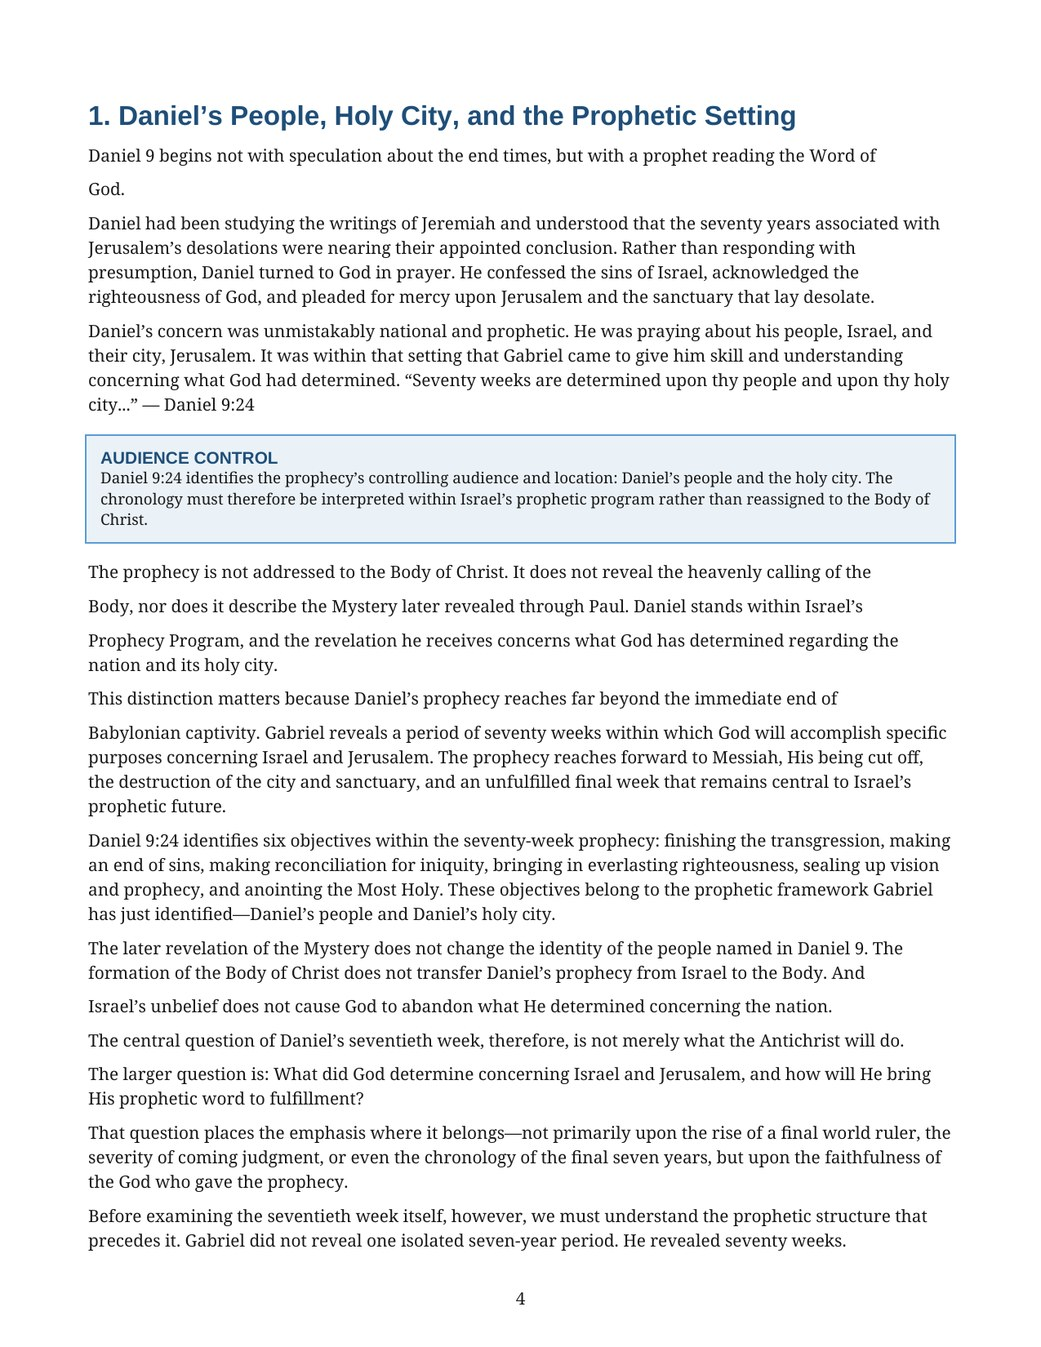
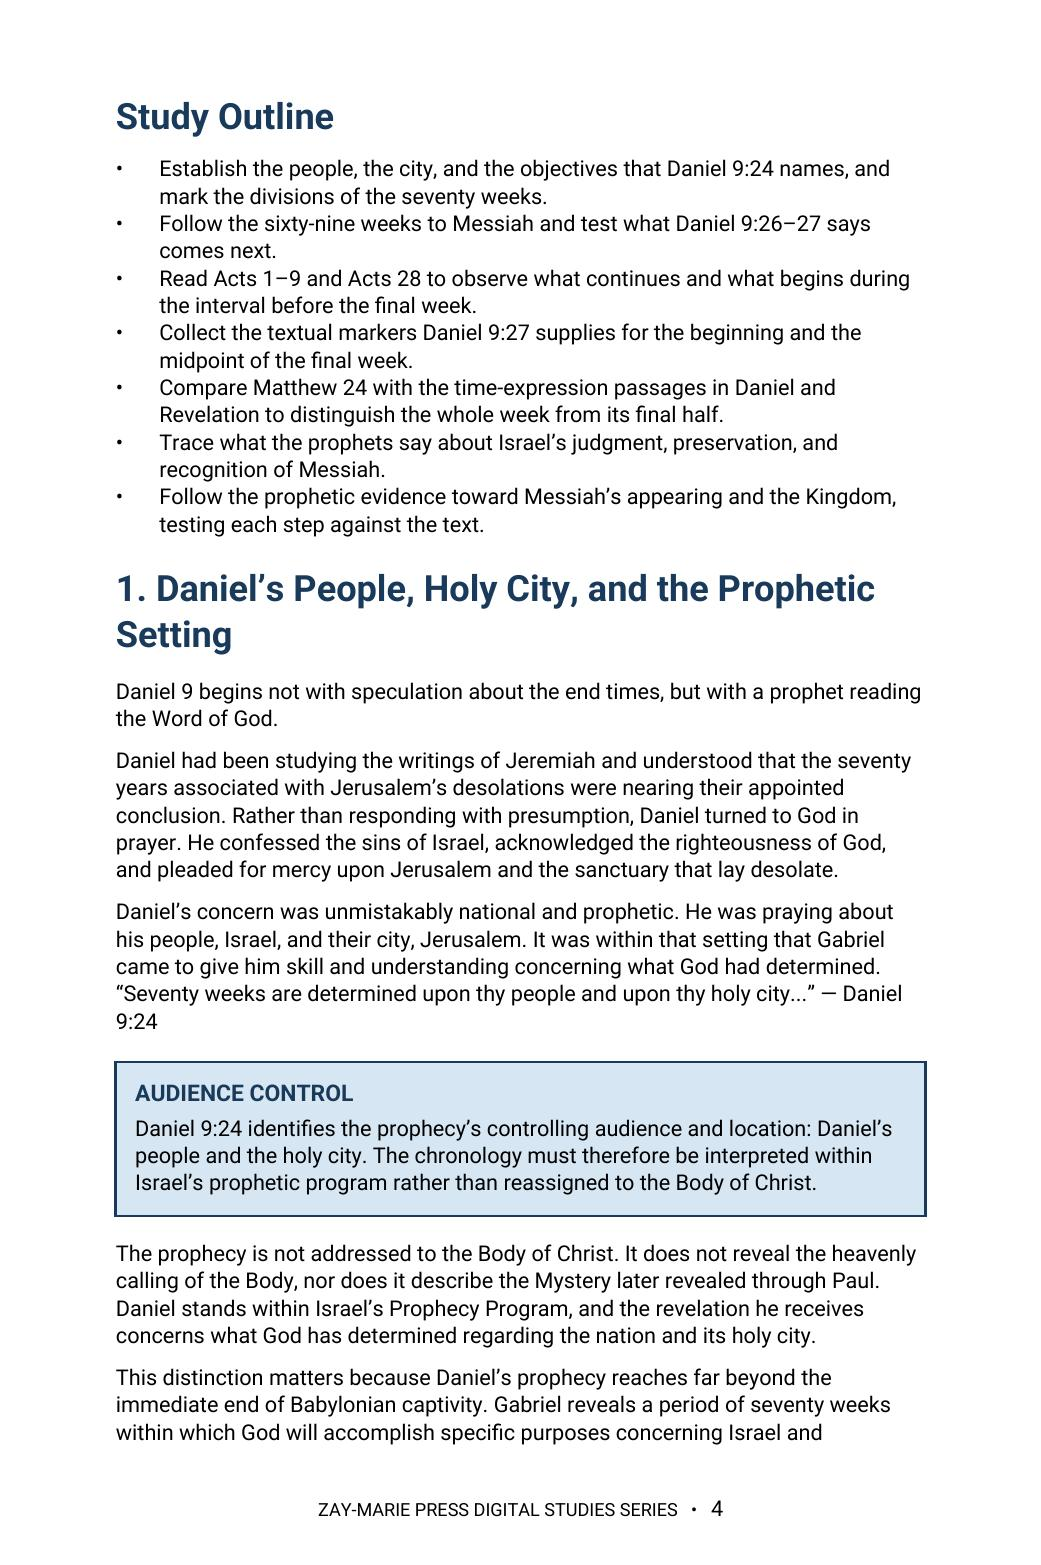
Study 10: Roboto rebuild to Master Standard v1.30; 23 pages (publisher-accepted exception); preview strip re-cut; tracker v1.34
Claude-Session: https://claude.ai/code/session_01TLNFW47XCW6YAMUxScR3v4

Changed region(s): [[0.0615, 0.0624, 0.9222, 0.9666], [0.8915, 0.3118, 0.9222, 0.343]]

diff --git a/study-10-daniels-seventieth-week.html b/study-10-daniels-seventieth-week.html
@@ -14,7 +14,7 @@
 <section class="detail-section soft"><div class="wrap"><div class="eyebrow">WHAT YOU’LL STUDY</div><h2>Follow Daniel’s Prophetic Framework</h2><div class="study-points"><div class="study-point"><h3>Daniel’s People, Holy City, and Prophetic Setting</h3><p>Begin where Daniel begins: Israel, Jerusalem, and the objectives God determined for them.</p></div><div class="study-point"><h3>The Seventy-Week Framework</h3><p>Establish the completed sixty-nine weeks and the one remaining seven-year week.</p></div><div class="study-point"><h3>The Unfulfilled Week and the Acts Overlap</h3><p>Keep Daniel’s future week distinct while Prophecy and Mystery operate concurrently in Acts 9–28.</p></div><div class="study-point"><h3>The Week Begins and Reaches Its Midpoint</h3><p>Follow Daniel 9:27’s explicit markers for the covenant, sacrifice, offering, and midpoint.</p></div><div class="study-point"><h3>The Great Tribulation: The Final Half</h3><p>Distinguish the complete seven-year week from the latter period Jesus associates with the abomination.</p></div><div class="study-point"><h3>Israel, Preservation, and the Coming King</h3><p>Trace judgment, preservation, Messiah’s appearing, and the earthly Kingdom promised to Israel.</p></div></div></div></section>
 <section class="detail-section cream"><div class="wrap"><div class="eyebrow">KEY SCRIPTURES</div><h2>Examine the Passages for Yourself</h2><div class="scripture-grid"><div class="scripture-card"><h3>Daniel 9:24–27</h3><p>Establishes the people, city, objectives, divisions, and final-week markers of the prophecy.</p></div><div class="scripture-card"><h3>Acts 1:6</h3><p>Shows Israel’s Kingdom expectation still in view after the resurrection.</p></div><div class="scripture-card"><h3>Acts 9</h3><p>Marks the beginning of the Mystery revealed through Paul while Prophecy continues.</p></div><div class="scripture-card"><h3>Acts 28:25–28</h3><p>Marks the suspension of Israel’s Prophecy Program without cancellation of Israel’s promises.</p></div><div class="scripture-card"><h3>Matthew 24:15–31</h3><p>Connects the abomination with the Great Tribulation and Messiah’s appearing.</p></div><div class="scripture-card"><h3>2 Thessalonians 2:3–8</h3><p>Adds prophetic detail concerning the final ruler and his self-exaltation.</p></div><div class="scripture-card"><h3>Revelation 11–13</h3><p>Supplies time markers that illuminate the final half of the week.</p></div><div class="scripture-card"><h3>Zechariah 12–14</h3><p>Traces Israel’s future recognition of Messiah, deliverance, and Kingdom fulfillment.</p></div></div></div></section>
 <section class="detail-section"><div class="wrap"><div class="eyebrow">FROM THE STUDY</div><h2>God’s Prophetic Word Concerning Israel Will Stand</h2><div class="excerpt"><blockquote>“What God determined concerning Daniel’s people and Daniel’s holy city, He will fulfill.”</blockquote><p>The final week belongs to the prophetic purpose determined for Israel and Jerusalem. The Mystery revealed through Paul does not rewrite Daniel’s audience, absorb Israel’s promises, or place the Body of Christ inside Israel’s final week.</p></div></div></section>
-<section class="detail-section soft"><div class="wrap"><div class="eyebrow">A LOOK INSIDE</div><h2>Preview the Study Before You Purchase</h2><p class="preview-instruction">Click any page to enlarge it for reading.</p><div class="preview-grid"><div class="preview-card"><a class="preview-image-link" data-preview-lightbox href="assets/study-10-page-3.jpg"><img src="assets/study-10-page-3.jpg" alt="Study 10 interior preview — page 3, table of contents"/></a><div class="page-no">Page 3</div><h3>Table of Contents</h3><p>See the full structure of the study, from the introduction through the final synthesis.</p></div><div class="preview-card"><a class="preview-image-link" data-preview-lightbox href="assets/study-10-page-2.jpg"><img src="assets/study-10-page-2.jpg" alt="Study 10 interior preview — page 2, what you will learn"/></a><div class="page-no">Page 2</div><h3>What You Will Learn</h3><p>See the study’s goals, controls, and central question at a glance.</p></div><div class="preview-card"><a class="preview-image-link" data-preview-lightbox href="assets/study-10-page-4.jpg"><img src="assets/study-10-page-4.jpg" alt="Study 10 interior preview — page 4, Daniel’s people, holy city, and the prophetic setting"/></a><div class="page-no">Page 4</div><h3>Daniel’s People, Holy City, and the Prophetic Setting</h3><p>Begin where Daniel 9 begins: with a prophet reading the Word and praying for his people and city.</p></div></div></div></section>
+<section class="detail-section soft"><div class="wrap"><div class="eyebrow">A LOOK INSIDE</div><h2>Preview the Study Before You Purchase</h2><p class="preview-instruction">Click any page to enlarge it for reading.</p><div class="preview-grid"><div class="preview-card"><a class="preview-image-link" data-preview-lightbox href="assets/study-10-page-2.jpg"><img src="assets/study-10-page-2.jpg" alt="Study 10 interior preview — page 2, table of contents"/></a><div class="page-no">Page 2</div><h3>Table of Contents</h3><p>See the full structure of the study, from the introduction through the final synthesis.</p></div><div class="preview-card"><a class="preview-image-link" data-preview-lightbox href="assets/study-10-page-3.jpg"><img src="assets/study-10-page-3.jpg" alt="Study 10 interior preview — page 3, what you will learn"/></a><div class="page-no">Page 3</div><h3>What You Will Learn</h3><p>See the study’s goals, controls, and central question at a glance.</p></div><div class="preview-card"><a class="preview-image-link" data-preview-lightbox href="assets/study-10-page-4.jpg"><img src="assets/study-10-page-4.jpg" alt="Study 10 interior preview — page 4, Daniel’s people, holy city, and the prophetic setting"/></a><div class="page-no">Page 4</div><h3>Daniel’s People, Holy City, and the Prophetic Setting</h3><p>Begin where Daniel 9 begins: with a prophet reading the Word and praying for his people and city.</p></div></div></div></section>
 <section class="detail-section"><div class="wrap"><div class="eyebrow">WHAT’S INCLUDED</div><h2>A Focused Study Built for<br/>Understanding and Teaching</h2><div class="includes-grid"><div class="include-item"><h3>23-Page In-Depth Biblical Study</h3><p>A sustained, Scripture-first examination of Daniel’s final prophetic week.</p></div><div class="include-item"><h3>Seven Core Teaching Sections</h3><p>Progress from Daniel’s people and city to the final week, Messiah’s appearing, and Kingdom.</p></div><div class="include-item"><h3>Daniel 9 Framework Study</h3><p>Establish the seventy weeks, the sixty-nine completed weeks, and the one remaining week.</p></div><div class="include-item"><h3>Acts Overlap Control</h3><p>Keep Daniel’s future week within Israel’s Prophecy Program while Mystery operates distinctly in Acts.</p></div><div class="include-item"><h3>Ten Review Questions</h3><p>Test the study’s distinctions concerning Daniel 9, the week, Israel, and the Body.</p></div><div class="include-item"><h3>Teaching Outline</h3><p>A ready framework for explaining the final week without depending on an inherited chart.</p></div><div class="include-item"><h3>Guided Further Study</h3><p>Trace the key texts on the framework, midpoint, preservation, Messiah’s appearing, and Kingdom.</p></div><div class="include-item"><h3>Final Synthesis Exercise</h3><p>Build the entire argument from Scripture and distinguish explicit statements from broader synthesis.</p></div></div></div></section>
 <section class="detail-section cream"><div class="wrap"><div class="final-buy"><div><div class="eyebrow">STUDY 10 · DIGITAL STUDY</div><h2>Daniel’s Seventieth Week</h2><p>23-page digital PDF · For personal use</p></div><div class="final-offer"><div class="detail-price">$5.99</div><span class="detail-button pending" aria-disabled="true">Get the Study</span></div></div><a class="back-link" href="digital-studies.html">← Back to All Digital Studies</a></div></section><section class="study-method-course-bridge"><div class="wrap"><div class="study-method-course-panel"><div><div class="eyebrow">BUILD THE INTERPRETIVE METHOD</div><h2>Want More Than a Focused Study?</h2><p>Digital Studies examine particular biblical subjects and difficult passages. The 40-lesson Biblical Hermeneutics course teaches a complete, repeatable method for establishing meaning in context, determining proper assignment, and making responsible application.</p></div><a class="btn btn-primary" href="biblical-hermeneutics-course.html">BIBLICAL HERMENEUTICS COURSE</a></div></div></section></main>
 <div class="preview-lightbox" id="preview-lightbox" role="dialog" aria-modal="true" aria-label="Enlarged study page preview"><button class="preview-lightbox-close" type="button" aria-label="Close enlarged preview">×</button><img src="" alt=""/><div class="preview-lightbox-hint">Scroll to read the full page · Press Esc or click outside the page to close</div></div>

diff --git a/controlling-documents/Digital_Studies_PAM_Audit_v1.34.md b/controlling-documents/Digital_Studies_PAM_Audit_v1.34.md
@@ -187,7 +187,7 @@ All 71 studies get a detailed look, in number order, in batches of 15 (1-15, 16-
 | 2, 3, 6, 8, 15 | Not yet read (PDFs for 2, 3, 6, 8 received; 15 not yet supplied) |
 | 4, 5, 7, 11, 12, 13, 14 | Previously read in full and clear (noted) |
 | 9 | Previously reviewed; conflict fixed. Open item: no recorded live check after the Cloudflare incident (v1.9 note) |
-| 10 | Previously keyword sweep plus flagged passages read (not a full read); noted |
+| 10 | Read in full 2026-09-30: clear (see v1.34) |
 
 ## Study 1 - The Bride of Christ (2026-09-30)
 
@@ -260,3 +260,4 @@ Study 15 PDF not yet supplied. Typography: none of Studies 2, 3, 6, 8 is in EB G
 - v1.31 (2026-09-30): Study 7 (The Day of the Lord) read in full against the PAM and Framework: clear (Day of the Lord kept in Israel's Prophecy Program; 1 Thess 4 treated as the Body's gathering, chapter 5 as the Day; 2 Thess 2:2 left unresolved; no use of Matthew 24 or Luke 17 as rapture texts; Thessalonians not assigned by the PAM). Approved by the publisher ("i approve") and pushed: Roboto rebuild to Master Standard v1.28/v1.29/v1.30, 16 pages (cover plus 15 interior; was 17), five boxed callouts (Study Goal, Interpretive Control in the Introduction, Programmatic Control, Hermeneutical Control, Final Control; the others became body paragraphs with a bold run-in lead), TOC first at body spacing, Heading 1 at 12 pt, review questions 1-18, copyright in the end imprint. Website: preview strip kept at three cards but re-cut (Page 2 Table of Contents, Page 3 What You Will Learn, Page 6 Sudden Destruction and Judgment; page 5 rejected because it opens with the Programmatic Control callout, which states the conclusion); old page 9, 12 and 13 images removed; page count 17 to 16 in site.js, the What's Included card and the hero line. Checked locally at 1280, 390, 360 and 320 px; not checked live (Cloudflare Access sign-in). The publisher swaps the purchasable PDF himself. Next file needed: Study 8 DOCX.
 - v1.32 (2026-09-30): Study 8 (The Day of Christ) read in full against the PAM and Framework: clear (Judgment Seat applied to the Body; Day of Christ in the Mystery Program and Day of the Lord in Prophecy; 2 Thess 2:2 translation question left open; 1 Cor 15:51 treated as a Mystery; Col 1:27 not tied to John 14). Approved by the publisher ("i approve") and pushed: Roboto rebuild to Master Standard v1.28/v1.29/v1.30, 16 pages (cover plus 15 interior; was 15), five boxed callouts (Study Goal, Interpretive Control in the Introduction, Judgment Seat Control, Interpretive Control on the two Days, Final Control; the others became body paragraphs with a bold run-in lead), TOC first at body spacing, Heading 1 at 12 pt, review questions 1-20, copyright in the end imprint. Defects fixed in the rebuild: the source TOC had no page numbers (all 26 entries now have dot leaders and numbers taken from the PDF; the builder now adds them automatically) and ended with a production placeholder line (removed). Publisher directives applied from Study 8 forward (not retrofitted to Studies 1-7 and 9): the interior footer reads "ZAY-MARIE PRESS DIGITAL STUDIES SERIES" plus the page number, per Master Standard section 11, and the interior header text is removed (no running header). Margins 0.83 in because the source's 0.35 in margins gave 15 pages at 0.67 in and the Standard requires 15 interior pages. Website: preview strip reduced from four cards to three (Page 2 Table of Contents, Page 3 What You Will Learn, Page 5 Completion and Sincerity; images at 1041 x 1565); old page 8, 11 and 13 images removed; page count 15 to 16 in site.js, the What's Included card and the hero line. Checked locally at 1280, 390, 360 and 320 px; not checked live (Cloudflare Access sign-in). The publisher swaps the purchasable PDF himself. Next file needed: Study 11 DOCX.
 - v1.33 (2026-09-30): Study 11 (The Beginning of the Body of Christ) read in full against the PAM and Framework from the publisher's PDF (v12, 13 pages; he had no DOCX): clear (Pentecost kept in Israel's Prophecy Program, consistent with the Framework's "Acts 2 is not the beginning of the Body"; Acts 9-28 overlap and the Acts 28 suspension; no use of Acts 10-11 or Acts 15 beyond the rulings; the study itself states that Acts 9 never contains the sentence "the Body began here"). Approved by the publisher ("i approve") and pushed. Because no DOCX existed, an editable DOCX was reconstructed from the PDF text (structure inferred from font size and position; a word-by-word comparison of the new PDF against the source PDF found no wording changes apart from the moved table of contents, a period after four run-in labels, and the imprint) and then built to Master Standard v1.28/v1.29/v1.30: 15 pages (cover plus 14 interior; was 13), the publisher accepted 14 interior pages for this study, standard 0.67 in margins, Roboto only, five boxed callouts (Study Goal, Interpretive Control, Acts 9 Control, Acts Overlap Control, Final Control; Doctrinal Principle, Pentecost Control, Audience Control and Revelation Control became body paragraphs with a bold run-in lead), TOC first at body spacing with page numbers, Heading 1 at 12 pt, footer "ZAY-MARIE PRESS DIGITAL STUDIES SERIES" plus page number, no header text, review questions 1-12, standard end imprint (the source's own personal-use license wording was dropped at the publisher's OK). The study had no Study Outline; one was drafted from the Teaching Outline as process-only wording (section 17) and approved by the publisher (six bullets under the Study Goal; not a TOC entry). Builder changes: imprint is now appended after a closing callout table, not before it; sgen tolerates a missing Study Outline. Website: preview strip kept at three cards but re-cut (Page 2 Table of Contents, Page 3 What You Will Learn with the outline, Page 4 The Question Beneath the Question; the old third card's page opens with a conclusion heading); old page 5 image removed; page count 13 to 15 in site.js, the What's Included card and the hero line. Checked locally at 1280, 390, 360 and 320 px; not checked live (Cloudflare Access sign-in). The publisher swaps the purchasable PDF himself. Next file needed: Study 12.
+- v1.34 (2026-09-30): Study 10 (Daniel's Seventieth Week) read in full against the PAM and Framework from the publisher's DOCX (v17): clear (seventy weeks kept with Israel and Jerusalem; Acts 1–8 Prophecy, Acts 9 Mystery begins, Acts 9–28 overlap, Acts 28 suspension not cancellation; no Matt 24/Luke 17 rapture claims; Rom 11:25 only in a reading list). Rebuilt in Roboto to Master Standard v1.30 (12/8 headings, Study 8+ footer, no header): five boxed callouts (Study Goal, Audience Control, Chronology Control, Overlap Control, Final Truth; Redemption Control became a run-in paragraph), Study Outline drafted from the Teaching Outline, Investigation 6 heading supplied, duplicate Final Synthesis merged into one heading, broken source paragraphs rejoined, misplaced Scripture-Tracing paragraph moved, Roman-numeral Teaching Outline turned to bullets. Length: the study is about 8,000 words; condensing to 17 pages would have cut important content, so the publisher accepted 23 pages as an exception to §9 (cover plus 22 interior). Only restated material was removed (Judgment Is Not Redemption, Suffering Does Not Redeem Israel, Israel's Future Rests Upon God, Two Destinies Remain Distinct, four Conclusion subsections, the Conclusion recap bullets and closing paragraphs). Website: preview strip re-cut to TOC (p2), What You Will Learn (p3), Section 1 (p4); old extra preview images removed; page count stays 23. Approved by the publisher ("i approve") and pushed.
